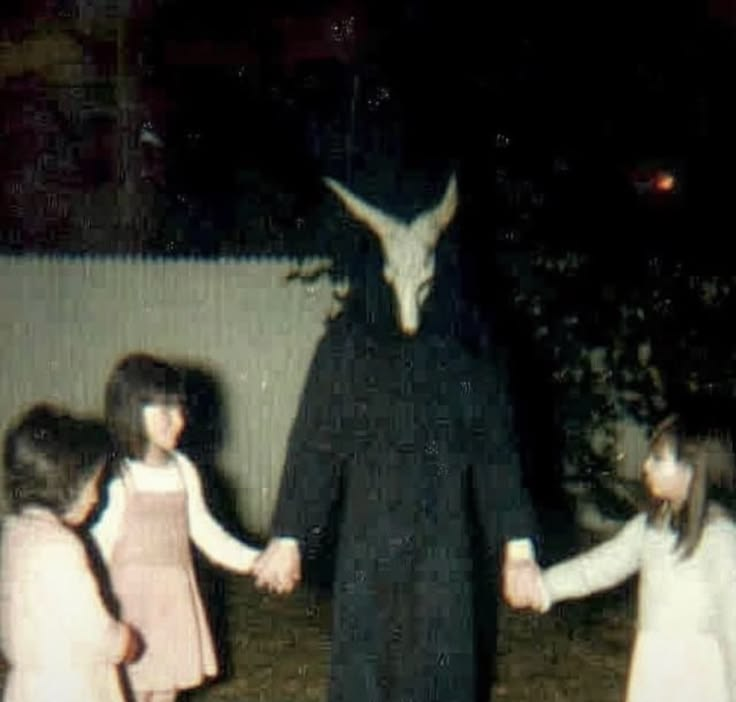
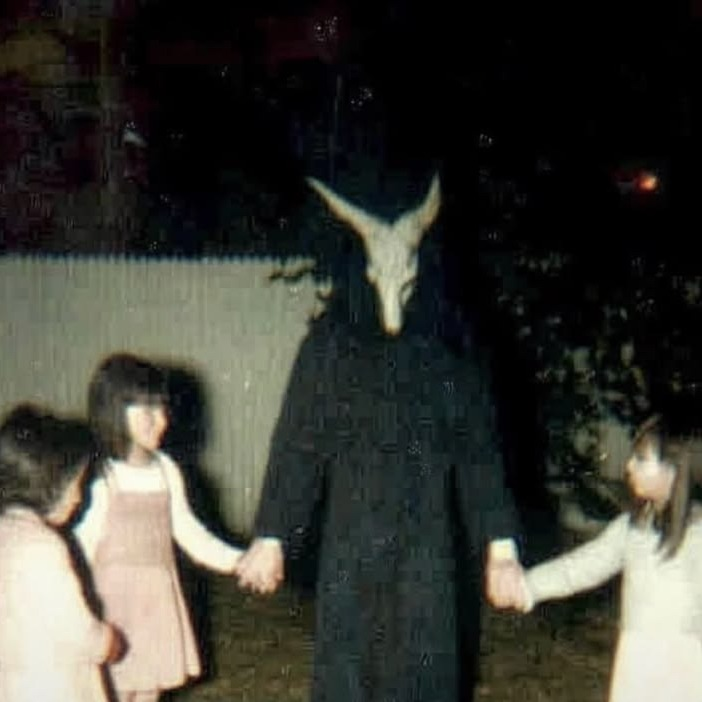
split film still into two slides, crop all gallery slides square
Claude-Session: https://claude.ai/code/session_01QN9y5qiAAwAPjdVxxasXfu

diff --git a/index.html b/index.html
@@ -538,10 +538,11 @@ const SITE = {
   gallery: {
     title: "gallery",
     items: [
-      { image: "images/goat_mask.jpg",      caption: "", number: "01 / 04", fit: "contain" },
-      { image: "images/plague_street.jpg",  caption: "", number: "02 / 04", fit: "contain" },
-      { image: "images/plague_bonnet.jpg",  caption: "", number: "03 / 04", fit: "contain" },
-      { image: "images/could_kill_you.jpg", caption: "", number: "04 / 04", fit: "contain" },
+      { image: "images/goat_mask.jpg",      caption: "", number: "01 / 05", fit: "contain" },
+      { image: "images/plague_street.jpg",  caption: "", number: "02 / 05", fit: "contain" },
+      { image: "images/plague_bonnet.jpg",  caption: "", number: "03 / 05", fit: "contain" },
+      { image: "images/could_kill_you.jpg", caption: "", number: "04 / 05", fit: "contain" },
+      { image: "images/making_love.jpg",    caption: "", number: "05 / 05", fit: "contain" },
     ],
   },
   bottomMedia: {
